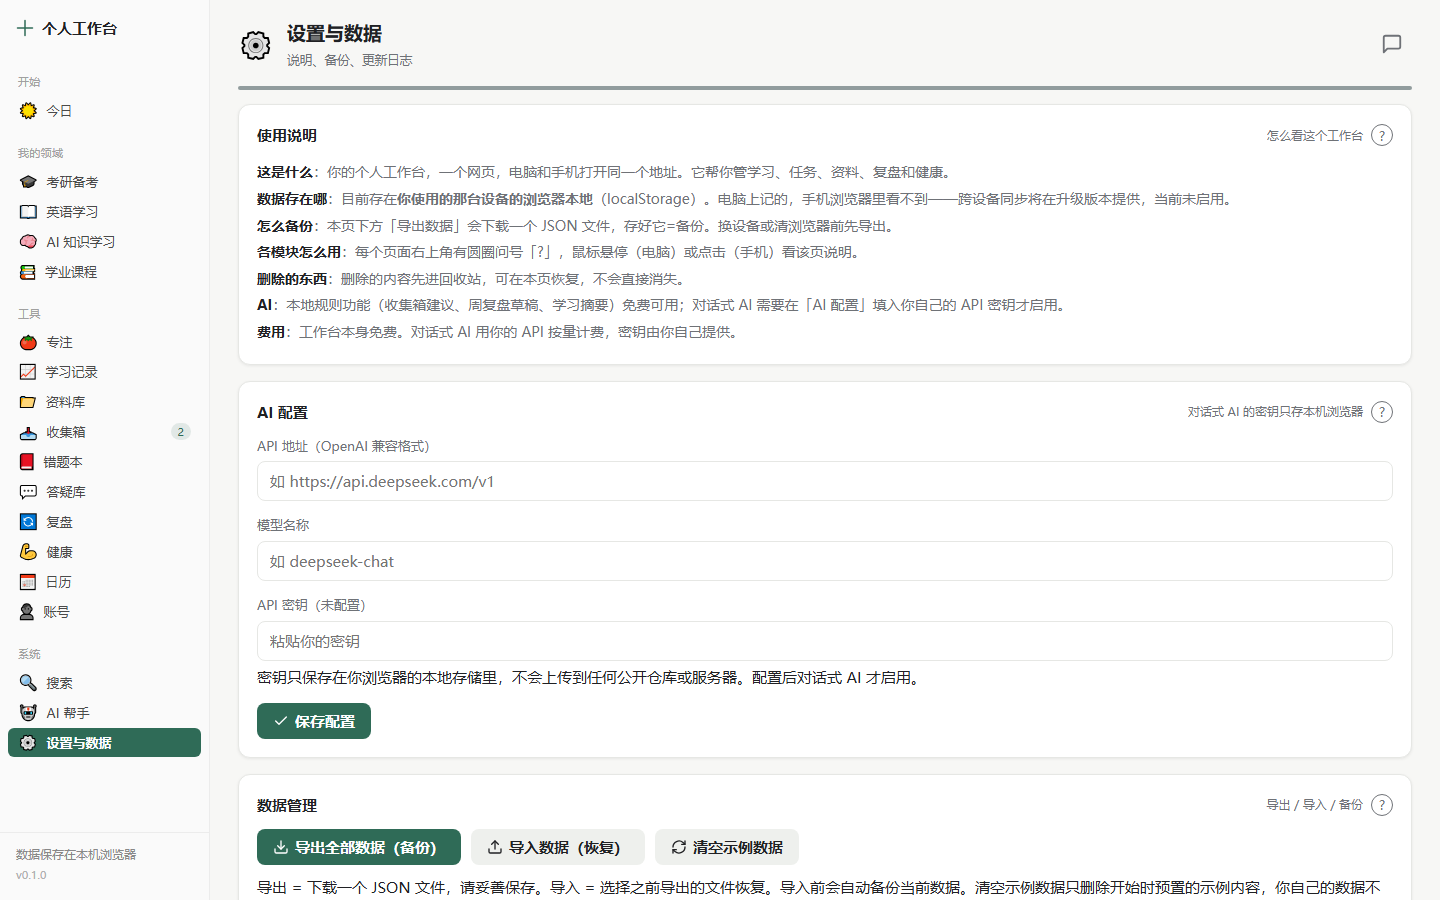
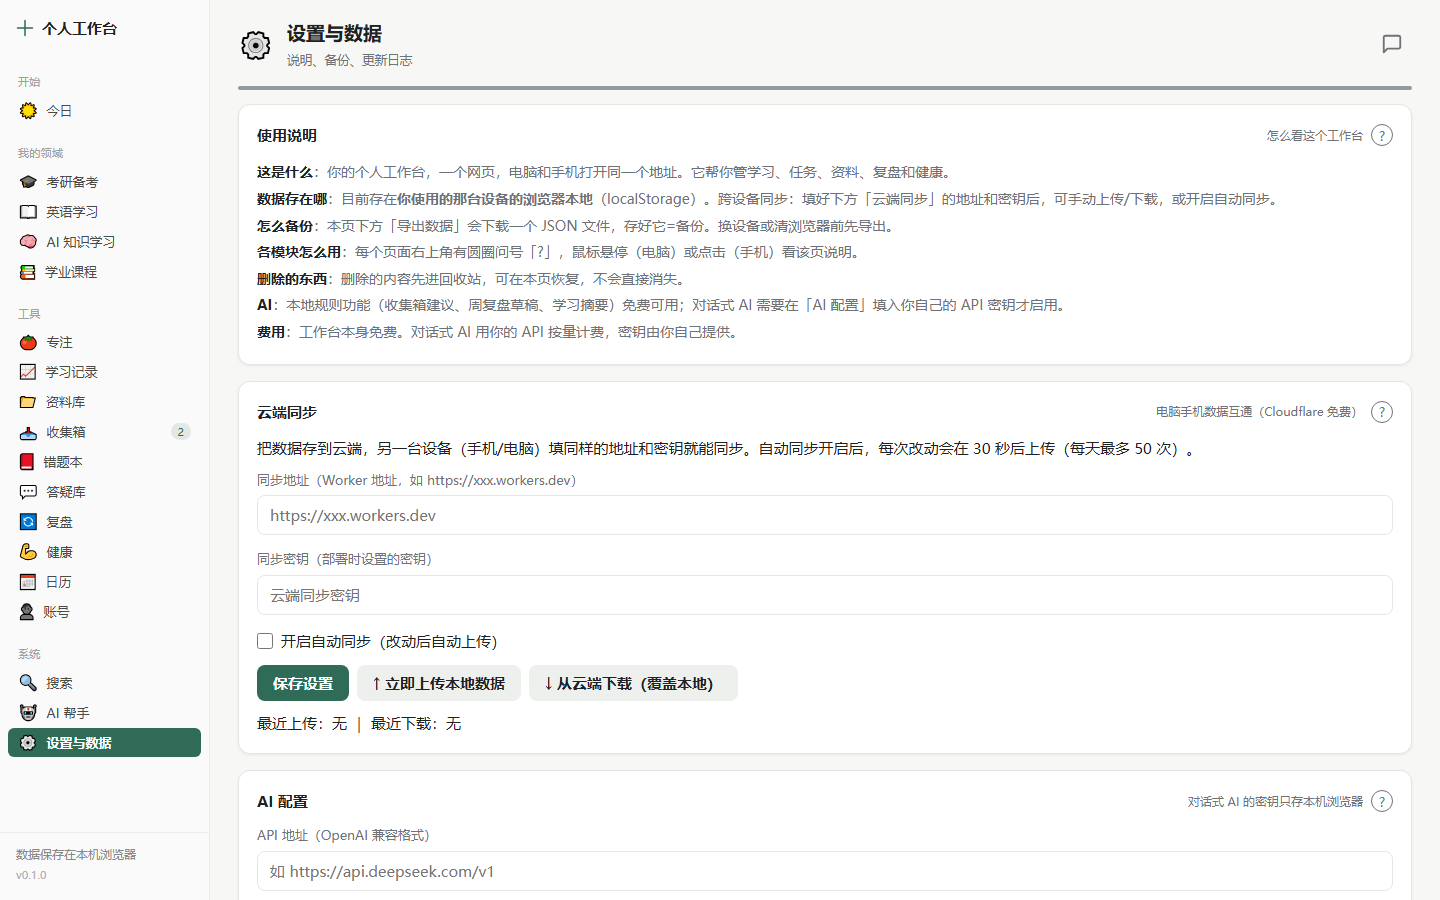
云端同步前端：设置页同步卡（地址/密钥/自动同步）+手动上传下载+30秒防抖自动同步（每天限50次）+下载前本地备份

diff --git a/app.js b/app.js
@@ -397,6 +397,65 @@
     } catch (e) {
       toast("保存失败：浏览器存储空间可能已满", true);
     }
+    scheduleSync();
+  }
+
+  /* ---------- 云端同步（Cloudflare Worker + KV，需在设置里填地址与密钥） ---------- */
+  var syncTimer = null, syncTodayCount = 0, syncDay = "";
+  function syncConfig() { return data.settings.sync || {}; }
+  function scheduleSync() {
+    var sc = syncConfig();
+    if (!sc.auto || !sc.url || !sc.key) return;
+    /* 每天最多自动同步 50 次，30 秒防抖 */
+    var t = todayStr();
+    if (syncDay !== t) { syncDay = t; syncTodayCount = 0; }
+    if (syncTodayCount >= 50) return;
+    if (syncTimer) clearTimeout(syncTimer);
+    syncTimer = setTimeout(function () { syncTodayCount++; syncPush(true); }, 30000);
+  }
+  function syncPush(silent) {
+    var sc = syncConfig();
+    if (!sc.url || !sc.key) { if (!silent) toast("请先在设置里填写云端同步地址和密钥", true); return; }
+    fetch(String(sc.url).replace(/\/+$/, "") + "/data", {
+      method: "PUT",
+      headers: { "Content-Type": "application/json", "X-Sync-Key": sc.key },
+      body: JSON.stringify(data)
+    }).then(function (r) {
+      if (!r.ok) throw new Error("HTTP " + r.status);
+      data.settings.sync.lastPush = nowStr();
+      save(true);
+      if (!silent) toast("已上传到云端（" + (data.settings.sync.lastPush || "").slice(11) + "）");
+    }).catch(function (e) {
+      if (!silent) toast("上传失败：" + e.message, true);
+    });
+  }
+  function syncPull() {
+    var sc = syncConfig();
+    if (!sc.url || !sc.key) { toast("请先在设置里填写云端同步地址和密钥", true); return; }
+    fetch(String(sc.url).replace(/\/+$/, "") + "/data", {
+      method: "GET",
+      headers: { "X-Sync-Key": sc.key }
+    }).then(function (r) {
+      if (!r.ok) throw new Error("HTTP " + r.status);
+      return r.json();
+    }).then(function (remote) {
+      if (!remote || typeof remote !== "object" || !remote.meta) throw new Error("云端没有有效数据");
+      /* 下载前先备份本地数据（安全兜底） */
+      try {
+        localStorage.setItem(STORE_KEY + "_backup_" + todayStr(), JSON.stringify(data));
+      } catch (e) { /* 备份失败不阻塞 */ }
+      /* 原地替换 data 内容（保持引用，其他闭包不受影响） */
+      Object.keys(data).forEach(function (k) { delete data[k]; });
+      Object.assign(data, remote);
+      data.settings.sync = data.settings.sync || {};
+      data.settings.sync.lastPull = nowStr();
+      save(true);
+      applyFont(); applyTheme(data.settings && data.settings.primaryDomain);
+      renderAll();
+      toast("已从云端下载，本地已备份（" + todayStr() + "）");
+    }).catch(function (e) {
+      toast("下载失败：" + e.message, true);
+    });
   }
   function refresh() {
     renderAll();
@@ -2664,8 +2723,19 @@
         data.settings.focusMode = data.settings.focusMode === "b" ? "a" : "b";
         save(true); renderView(); break;
 
-      /* 账号 */
-      case "add-account": accountModal(null); break;
+      case "sync-push": syncPush(false); break;
+      case "sync-pull": syncPull(); break;
+      case "sync-save": {
+        var sc = data.settings.sync = data.settings.sync || {};
+        sc.url = fval("syncUrl").trim();
+        sc.key = fval("syncKey").trim();
+        sc.auto = !!(document.getElementById("syncAuto") || {}).checked;
+        save();
+        modalClose();
+        toast(sc.url ? "云端同步设置已保存" : "已清除云端同步设置");
+        renderAll();
+        break;
+      }
       case "del-account": {
         var a = data.accounts.filter(function (x) { return x.id === id; })[0];
         if (a) {

diff --git a/views.js b/views.js
@@ -2242,12 +2242,25 @@
     html += card(cardHead("使用说明", "怎么看这个工作台", "guide"),
       '<div style="font-size:14px;color:var(--sub);line-height:1.9;">' +
       "<b style=\"color:var(--text);\">这是什么</b>：你的个人工作台，一个网页，电脑和手机打开同一个地址。它帮你管学习、任务、资料、复盘和健康。<br>" +
-      "<b style=\"color:var(--text);\">数据存在哪</b>：目前存在<b>你使用的那台设备的浏览器本地</b>（localStorage）。电脑上记的，手机浏览器里看不到——跨设备同步将在升级版本提供，当前未启用。<br>" +
+      "<b style=\"color:var(--text);\">数据存在哪</b>：目前存在<b>你使用的那台设备的浏览器本地</b>（localStorage）。跨设备同步：填好下方「云端同步」的地址和密钥后，可手动上传/下载，或开启自动同步。<br>" +
       "<b style=\"color:var(--text);\">怎么备份</b>：本页下方「导出数据」会下载一个 JSON 文件，存好它=备份。换设备或清浏览器前先导出。<br>" +
       "<b style=\"color:var(--text);\">各模块怎么用</b>：每个页面右上角有圆圈问号「?」，鼠标悬停（电脑）或点击（手机）看该页说明。<br>" +
       "<b style=\"color:var(--text);\">删除的东西</b>：删除的内容先进回收站，可在本页恢复，不会直接消失。<br>" +
       "<b style=\"color:var(--text);\">AI</b>：本地规则功能（收集箱建议、周复盘草稿、学习摘要）免费可用；对话式 AI 需要在「AI 配置」填入你自己的 API 密钥才启用。<br>" +
       "<b style=\"color:var(--text);\">费用</b>：工作台本身免费。对话式 AI 用你的 API 按量计费，密钥由你自己提供。</div>");
+
+    html += card(cardHead("云端同步", "电脑手机数据互通（Cloudflare 免费）", "sync"),
+      '<div class="li-sub" style="margin-bottom:10px;">把数据存到云端，另一台设备（手机/电脑）填同样的地址和密钥就能同步。自动同步开启后，每次改动会在 30 秒后上传（每天最多 50 次）。</div>' +
+      '<div class="field"><label>同步地址（Worker 地址，如 https://xxx.workers.dev）</label>' +
+      '<input id="syncUrl" value="' + esc((d.settings.sync || {}).url || "") + '" placeholder="https://xxx.workers.dev"></div>' +
+      '<div class="field"><label>同步密钥（部署时设置的密钥）</label>' +
+      '<input id="syncKey" type="password" value="' + esc((d.settings.sync || {}).key || "") + '" placeholder="云端同步密钥"></div>' +
+      '<label class="checkline"><input type="checkbox" id="syncAuto"' + ((d.settings.sync || {}).auto ? " checked" : "") + "> 开启自动同步（改动后自动上传）</label>" +
+      '<div style="display:flex;gap:8px;margin-top:12px;flex-wrap:wrap;">' +
+      '<button class="btn" data-action="sync-save">保存设置</button>' +
+      '<button class="btn plain" data-action="sync-push">↑ 立即上传本地数据</button>' +
+      '<button class="btn plain" data-action="sync-pull">↓ 从云端下载（覆盖本地）</button></div>' +
+      '<div class="li-sub" style="margin-top:10px;">最近上传：' + esc((d.settings.sync || {}).lastPush || "无") + " ｜ 最近下载：" + esc((d.settings.sync || {}).lastPull || "无") + "</div>");
 
     html += card(cardHead("AI 配置", "对话式 AI 的密钥只存本机浏览器", "api"),
       '<div class="field"><label>API 地址（OpenAI 兼容格式）</label>' +

diff --git a/cloudflare-worker.js b/cloudflare-worker.js
@@ -1,0 +1,35 @@
+/* 个人工作台 · 云端同步 Worker（Cloudflare Workers + KV）
+   部署：wrangler deploy
+   环境变量：SYNC_KEY（同步密钥，部署时设置）
+   KV 绑定：WB_KV（数据存储） */
+export default {
+  async fetch(request, env) {
+    const url = new URL(request.url);
+    const cors = {
+      "Access-Control-Allow-Origin": "*",
+      "Access-Control-Allow-Methods": "GET, PUT, OPTIONS",
+      "Access-Control-Allow-Headers": "Content-Type, X-Sync-Key"
+    };
+    if (request.method === "OPTIONS") return new Response(null, { headers: cors });
+
+    /* 密钥校验（简单共享密钥，无登录系统的妥协方案） */
+    const key = request.headers.get("X-Sync-Key") || "";
+    if (key !== env.SYNC_KEY) return new Response("unauthorized", { status: 401, headers: cors });
+
+    if (url.pathname === "/data") {
+      if (request.method === "GET") {
+        const v = await env.WB_KV.get("wb_main");
+        return new Response(v || "{}", { headers: { ...cors, "Content-Type": "application/json" } });
+      }
+      if (request.method === "PUT") {
+        const body = await request.text();
+        if (!body || body.length > 20 * 1024 * 1024) {
+          return new Response("too large (max 20MB)", { status: 413, headers: cors });
+        }
+        await env.WB_KV.put("wb_main", body);
+        return new Response("ok", { headers: cors });
+      }
+    }
+    return new Response("not found", { status: 404, headers: cors });
+  }
+};

diff --git a/service-worker.js b/service-worker.js
@@ -3,7 +3,7 @@
    - HTML 页面：优先网络（每次打开都是最新版），网络失败时用缓存（离线可用）
    - 静态资源（css/js）：先读缓存（秒开），后台拉取更新缓存
    - 发布新版本时更新 CACHE 版本号，旧缓存自动清理，一次刷新即生效 */
-var CACHE = "wb-cache-v037";
+var CACHE = "wb-cache-v038";
 var ASSETS = [
   "./",
   "./index.html",
